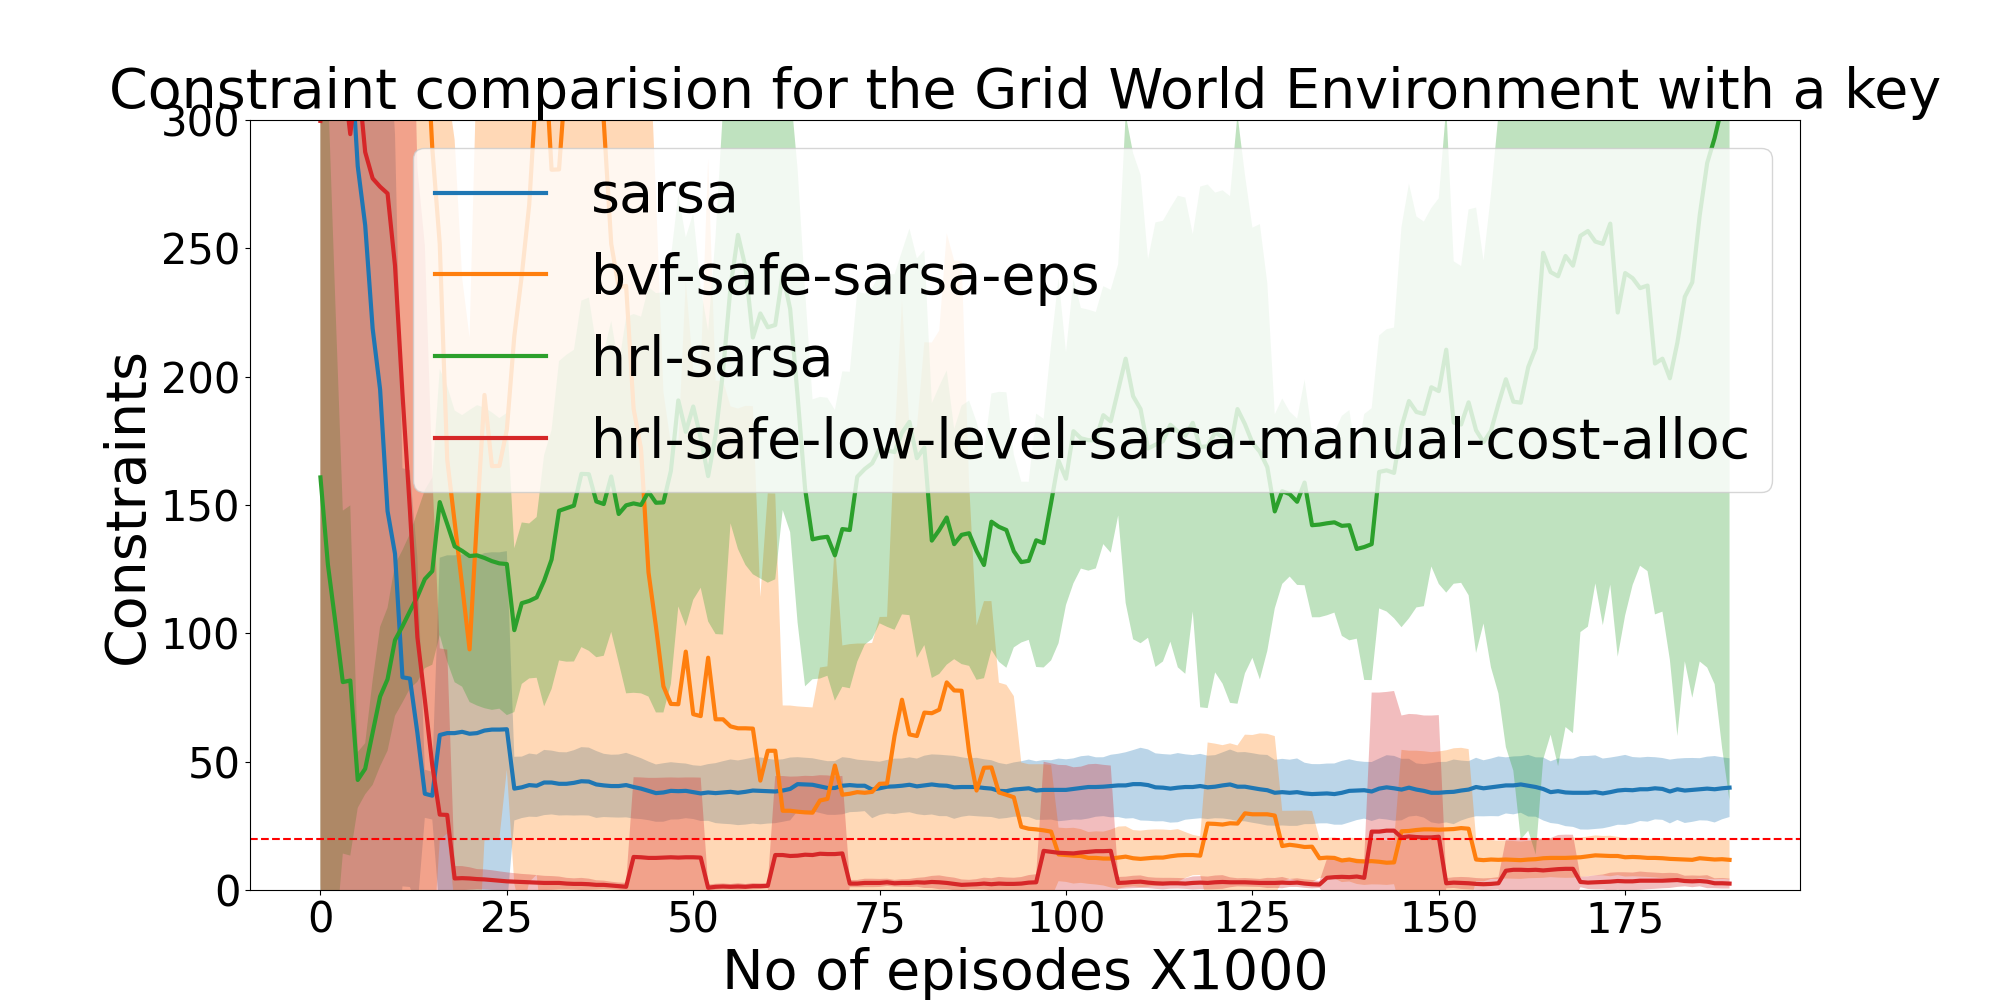
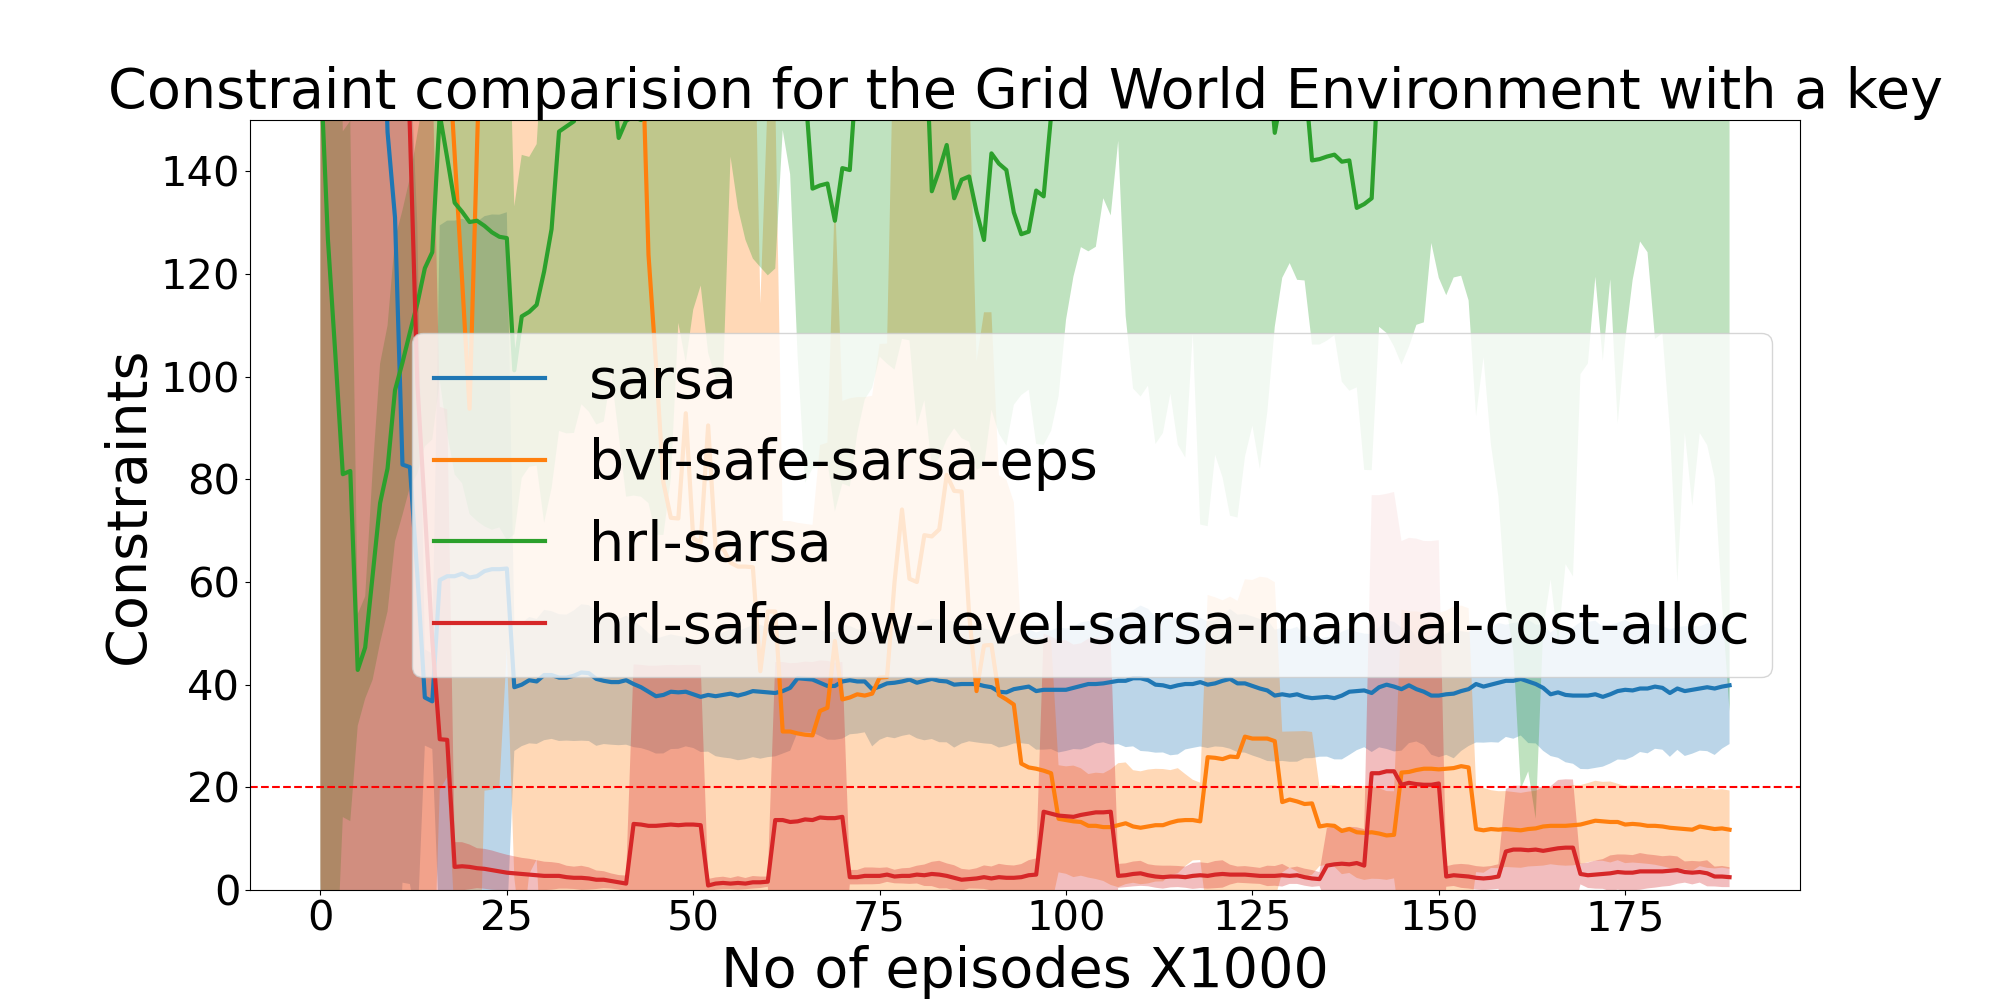
random

diff --git a/plot_grid_key.py b/plot_grid_key.py
@@ -148,6 +148,6 @@ plt.ylabel("Constraints", size=40)
 plt.title("Constraint comparision for the Grid World Environment with a key", size=40)
 name = "figures/grid/Constraints_Key"
 
-ax.set_ylim(0, 300)
+ax.set_ylim(0, 150)
 plt.savefig(name)
 plt.close(fig)
